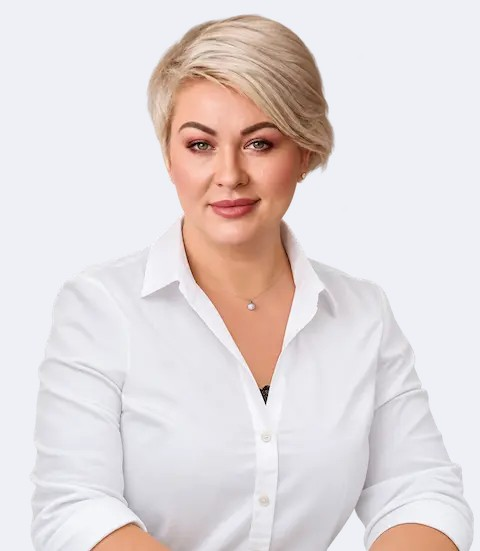
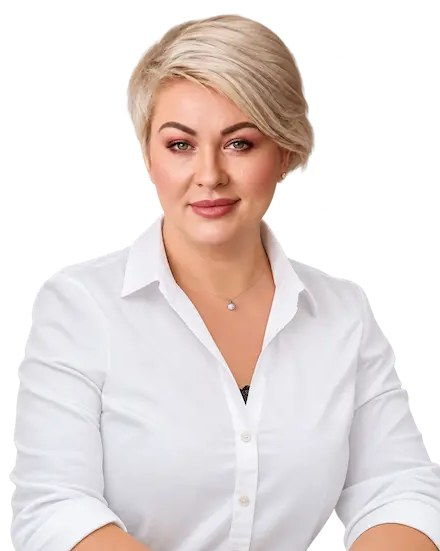
Калькулятор: ровные строки итогов; новые фото команды; презентабельное фото «О компании»; ссылка на офис в Google Картах
Claude-Session: https://claude.ai/code/session_01MAfCgnEbx7Jxioz3TPmo5A

diff --git a/src/lib/site.ts b/src/lib/site.ts
@@ -47,9 +47,9 @@ export const NAV: NavItem[] = [
 
 /** Команда. focus — точка кадрирования фото (класс Tailwind object-position), чтобы лицо было в центре карточки 4:5. */
 export const TEAM = [
-  { name: 'Халиль Ибрагим Дайе', role: 'CEO Stay Property', whatsapp: 'https://wa.me/905327643432', photo: '/images/team/halil.jpg', focus: 'object-[66%_30%]' },
-  { name: 'Наталья Лихошапка', role: 'Инвестиционный консультант', whatsapp: 'https://wa.me/905357141506', photo: '/images/team/natalya.jpg', focus: 'object-[50%_18%]' },
-  { name: 'Ульяна Коркмаз', role: 'Руководитель отдела продаж', whatsapp: 'https://wa.me/905391028170', photo: '/images/team/ulyana.jpg', focus: 'object-[50%_22%]' },
+  { name: 'Халиль Ибрагим Дайе', role: 'CEO Stay Property', whatsapp: 'https://wa.me/905327643432', photo: '/images/team/halil.jpg', focus: 'object-top' },
+  { name: 'Наталья Лихошапка', role: 'Инвестиционный консультант', whatsapp: 'https://wa.me/905357141506', photo: '/images/team/natalya.jpg', focus: 'object-top' },
+  { name: 'Ульяна Коркмаз', role: 'Руководитель отдела продаж', whatsapp: 'https://wa.me/905391028170', photo: '/images/team/ulyana.jpg', focus: 'object-top' },
 ];
 
 /** Показатели группы Stay Property (со старого сайта; подтвердить актуальность — docs/content-audit.md). */
